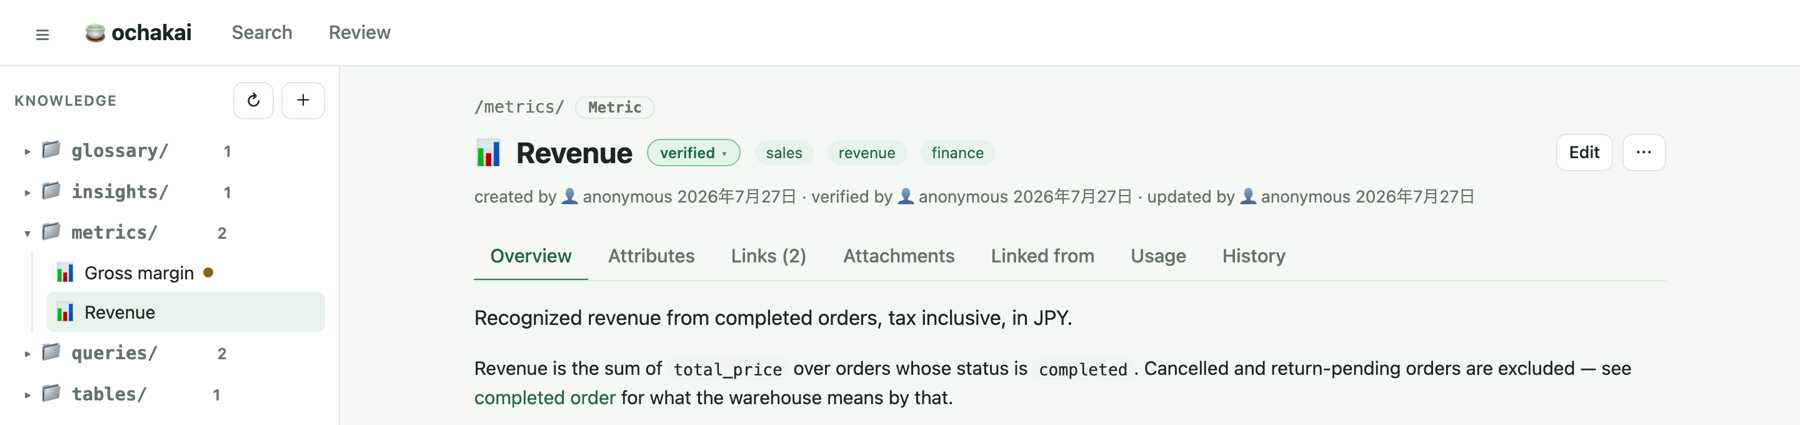
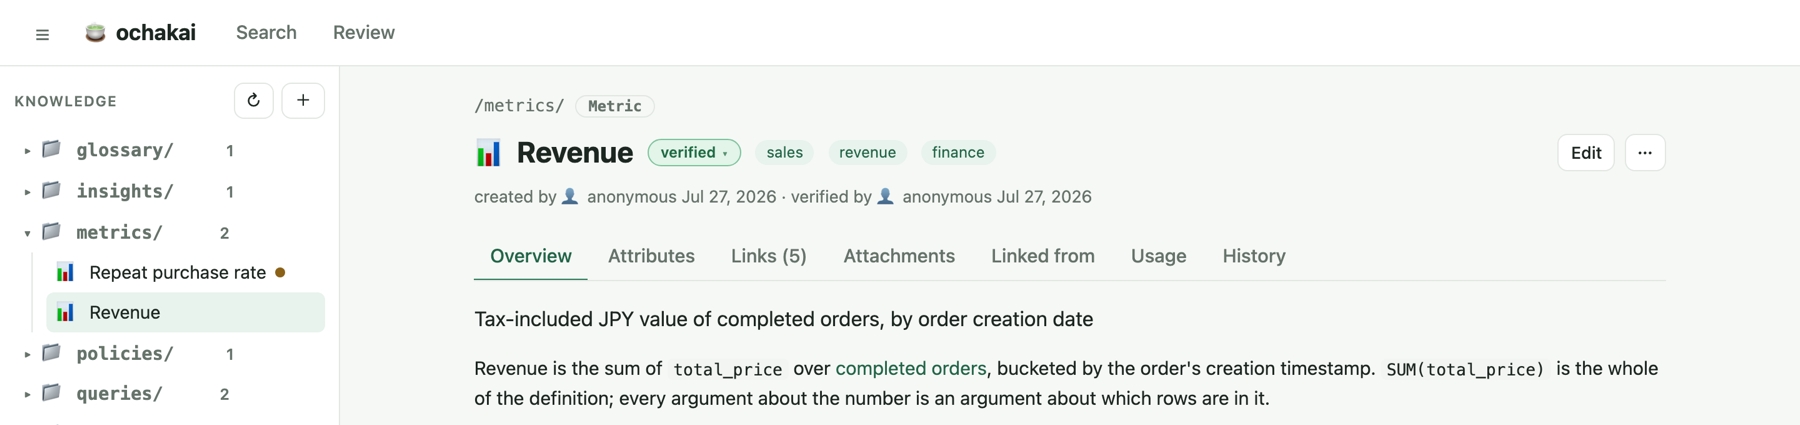
Reshoot the Web UI screenshots from the committed demo bundle
The README's pictures came from an ad-hoc corpus that exists nowhere,
so nobody could redo them when the UI moved. examples/demo is now a
committed ten-entry bundle, so the shots are taken from it and the
recipe is written down in docs/images/README.md.

The demo bundle shows more than the old corpus did: eight top-level
folders instead of five, hierarchical ids under queries/sales, and
descriptions long enough to fill a card. The one thing a bundle cannot
carry is a failure report — an event, not a document — so the
re-verification feed is planted with one `report failed` against
tables/shop-orders, worded from that entry's own known issue.

Two capture details cost a re-shoot each and are recorded with the
recipe: headless Chrome defaults to dark, and on macOS its ICU locale
follows the system whatever --lang and LANG say, so the entry page's
toLocaleDateString() printed Japanese dates while navigator.language
read en-US. Both are forced over the DevTools protocol now.

webui-tree.png is new and nothing references it yet.

diff --git a/docs/images/README.md b/docs/images/README.md
@@ -1,0 +1,82 @@
+# Web UI screenshots
+
+`webui-review.png`, `webui-entry.png`, `webui-wrong.png` and
+`webui-tree.png` are captures of the real Web UI serving
+[examples/demo](../../examples/demo). They are shot from the committed
+bundle rather than a corpus that only ever existed on one machine, so
+anyone can reproduce them when the UI changes.
+
+## Plant the knowledge base
+
+Any empty Postgres will do; make a scratch database and drop it when
+finished.
+
+```sh
+createdb shots   # or: docker exec <pg> psql -U t -d t -c 'CREATE DATABASE shots'
+OCHAKAI_DATABASE_URL='postgres://…/shots?sslmode=disable' \
+  OCHAKAI_INSECURE_DEV=true PORT=8095 go run ./cmd/ochakai serve &
+
+export OCHAKAI_URL=http://127.0.0.1:8095
+go run ./cmd/ochakai import examples/demo
+```
+
+The bundle already carries the two drafts the review queue needs and a
+draft whose `stale_after` has passed. The re-verification feed is the one
+thing it cannot ship, because a failure report is an event rather than a
+document — report one, and read a few entries so the usage counts on the
+cards are not all zero:
+
+```sh
+go run ./cmd/ochakai report tables/shop-orders failed --note "Ran the daily
+  revenue check at 07:40 JST and the day came out 13% short; MAX(created_at)
+  was 05:58, so the 06:00 partition had not landed yet."
+go run ./cmd/ochakai context "why is revenue down?"
+go run ./cmd/ochakai get metrics/revenue
+```
+
+Then serve the UI as yourself:
+
+```sh
+go run ./cmd/ochakai ui --port 8098
+```
+
+## Shoot
+
+Four hash routes, at a 1440 CSS-px width and a device scale factor of 2.
+The heights are chosen so each shot ends just under its last card; the UI
+is a fixed-viewport shell whose panes scroll internally, so the height is
+a crop, not a measurement.
+
+| Route | File | Height |
+|---|---|---|
+| `#/review` | `webui-review.png` | 570 |
+| `#/k/metrics/revenue` | `webui-entry.png` | 340 |
+| `#/search/reported-wrong` | `webui-wrong.png` | 375 |
+| `#/` | `webui-tree.png` | 510 |
+
+Two things have to be forced, or the pictures come out wrong in ways that
+are easy to miss:
+
+- **Light scheme.** Headless Chrome defaults to dark.
+- **An `en-US` locale.** The entry page prints its dates with
+  `toLocaleDateString()`, which reads ICU's default locale — and on macOS
+  that follows the system, so `--lang=en-US`, `--accept-lang` and
+  `LANG`/`LC_ALL` all leave it Japanese (`2026年7月27日`) while
+  `navigator.language` reports `en-US` and looks fine. Override it over
+  the DevTools protocol with `Emulation.setLocaleOverride` (light scheme
+  via `Emulation.setEmulatedMedia`), and check the result in the page:
+  `Intl.DateTimeFormat().resolvedOptions().locale` must be `en-US`.
+
+The entry route scrolls its sidebar to reveal the selected node, which
+clips the panel header; scroll back to the top before capturing.
+
+Downscale each to 1800px wide, which keeps all four under 1 MB together:
+
+```sh
+sips --resampleWidth 1800 docs/images/webui-*.png
+```
+
+Read every PNG before committing it. Reject any that is dark, dated in
+Japanese, mostly empty, or showing an error or empty state — a dead
+backend renders as a tidy "502 Bad Gateway" card that is easy to mistake
+for content at a glance.
